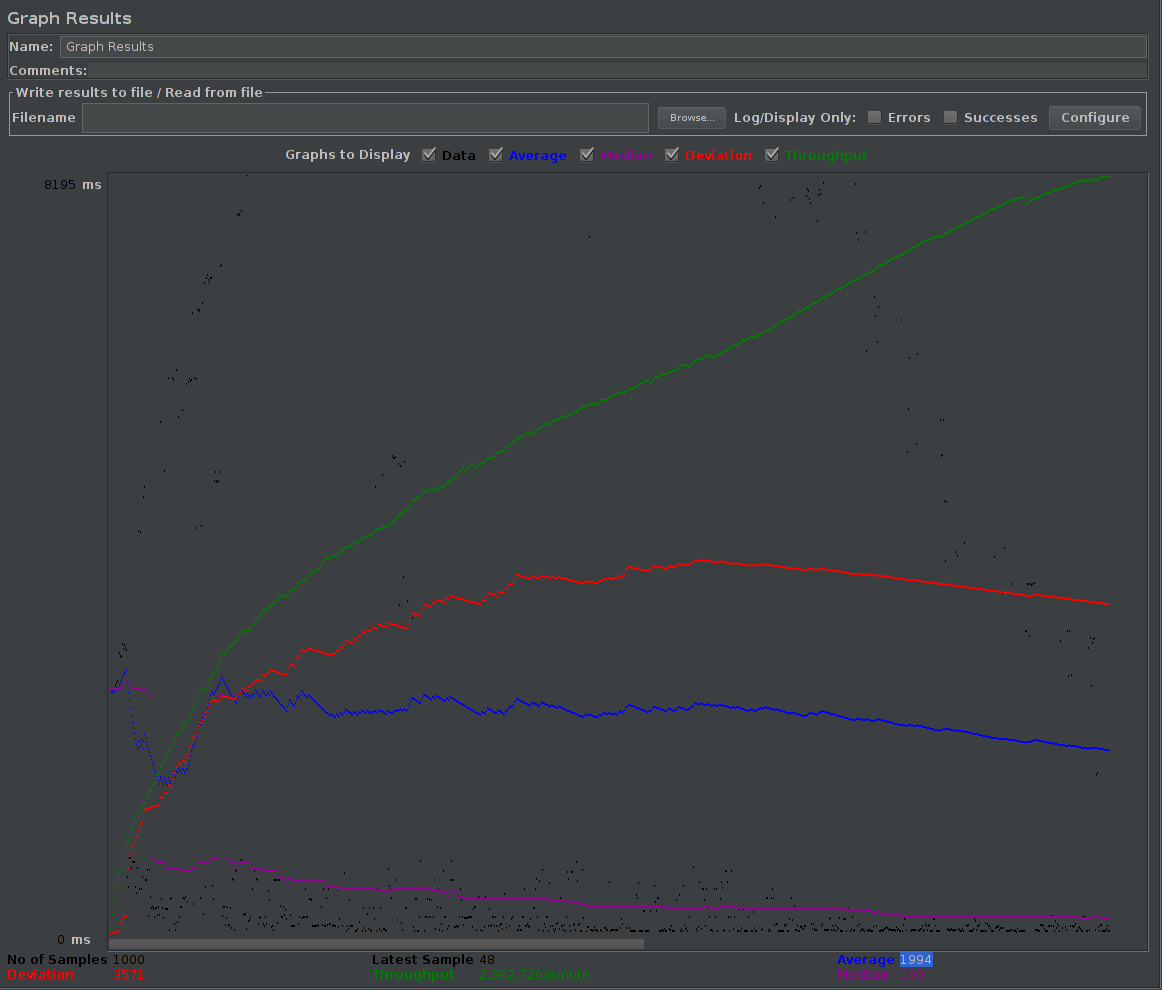
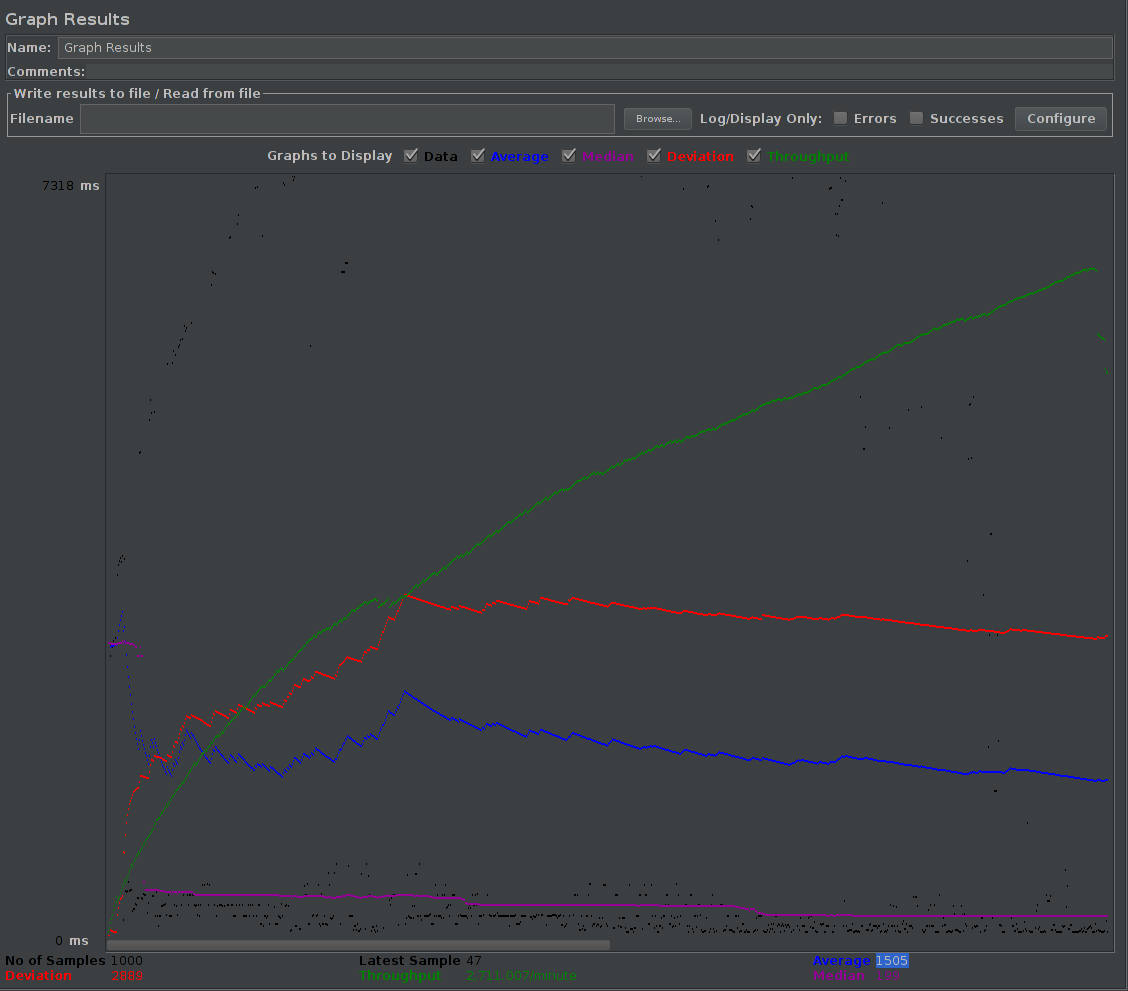
end of lab3

diff --git a/README.md b/README.md
@@ -172,38 +172,35 @@ To view your application in the web browser run:
 
 
 ## TASK 3: TEST THE PERFORMANCE OF DATASTORE WRITES
-
-### Test configuration
-100 users who request 10 times servlet
-#### Thread Groups
-![alt text](./ThreadGroupsJmeter.png)
-#### HTTP Request (Generated Servlet)
-![alt text](./HttpRequestJmeter.png)
-#### HTTP Request (Datastore Servlet)
-
-
 ### Generated Servlet
 #### JMeter Graph Results listener
 ![alt text](./GraphGeneratedServlet.png)
+
 #### App Engine Dashboard view
-![alt text](./DashboardGeneratedServlet.png)
+![alt text](./DashBoardGeneratedNbInstance.png)
+![alt text](./DashBoardGeneratedLatency.png)
+![alt text](./DashboardGeneratedNbRequest.png)
+![alt text](./DashboardGeneratedCurrentLoad.png)
+
 #### What response times do you observe in the test tool and App Engine console ?
 | Tool | average response times (ms) |
 |---|---|
-| App-Engine  | 60 |
-| Jmeter  |  21 |
+| App-Engine  | 6,428 |
+| Jmeter  |  11 |
 
 ### Datastore Servlet
 #### JMeter Graph Results listener
 ![alt text](./GraphDatastoreServlet.png)
 #### App Engine Dashboard view
-![alt text](./DatastoreDashboard.png)
+![alt text](./dashboardDatastoreLatency.png)
+![alt text](./dashboardDatastoreNbInstance.png)
 ![alt text](./DatastoreDashboardSuite.png)
+![alt text](./dashboardDatastoreCurrentLoad.png)
 #### What response times do you observe in the test tool and App Engine console ?
 | Tool | average response times (ms) |
 |---|---|
-| App-Engine  |  1173 |
-| Jmeter  | 1994 |
+| App-Engine  |  1,478 |
+| Jmeter  | 1505 |
 
 
 ### Compare the response times shown by the test tool and the App Engine console. Explain the difference.
@@ -242,7 +239,6 @@ We didn't find any informations about the quotas ! So we juste have described wh
 
 
 ### Let's suppose you become suspicious that the algorithm for the automatic scaling of instances is not working correctly. Imagine a way in which the algorithm could be broken. Which measures shown in the console would you use to detect this failure?
-1. Limit of the number of instances
-2. Daily quota limit: Check the status of the different quotas in the "Quotas" menu
-4. Services de la platform Google Cloud indisponible : View the status of services at: https://status.cloud.google.com
+1. Daily quota limit (number of instances,  )Check the status of the different quotas in the "Quotas" menu
+2. Google Cloud platform services unavailable : View the status of services at https://status.cloud.google.com
 
